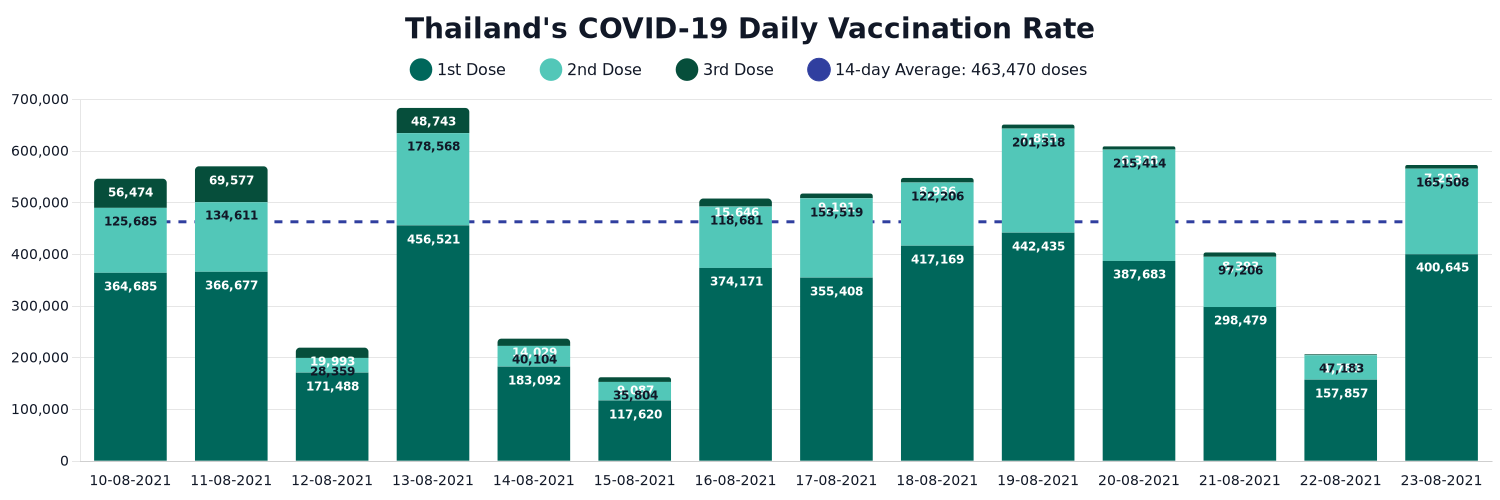
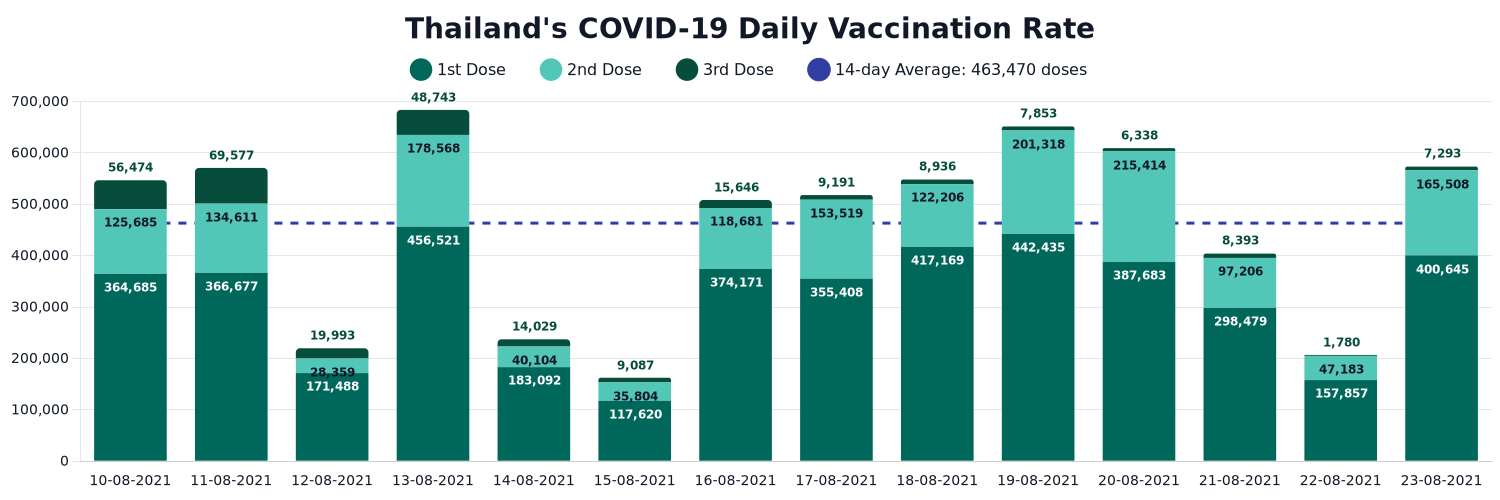
update chart script and chart img

diff --git a/modules/banner-graph.js b/modules/banner-graph.js
@@ -97,7 +97,8 @@ const graph = async () => {
           borderColor: thirdDoseColor,
           borderRadius: barRadius,
           datalabels: {
-            align: "start",
+            color: thirdDoseColor,
+            align: "end",
             anchor: "end",
           },
         },
@@ -213,7 +214,7 @@ const graph = async () => {
             // Call original function and bind scope in order to use `this` correctly inside it
             originalFit.bind(chart.legend)();
             // Change the height as suggested in another answers
-            this.height += 12;
+            this.height += 14;
           }
         }
       }
